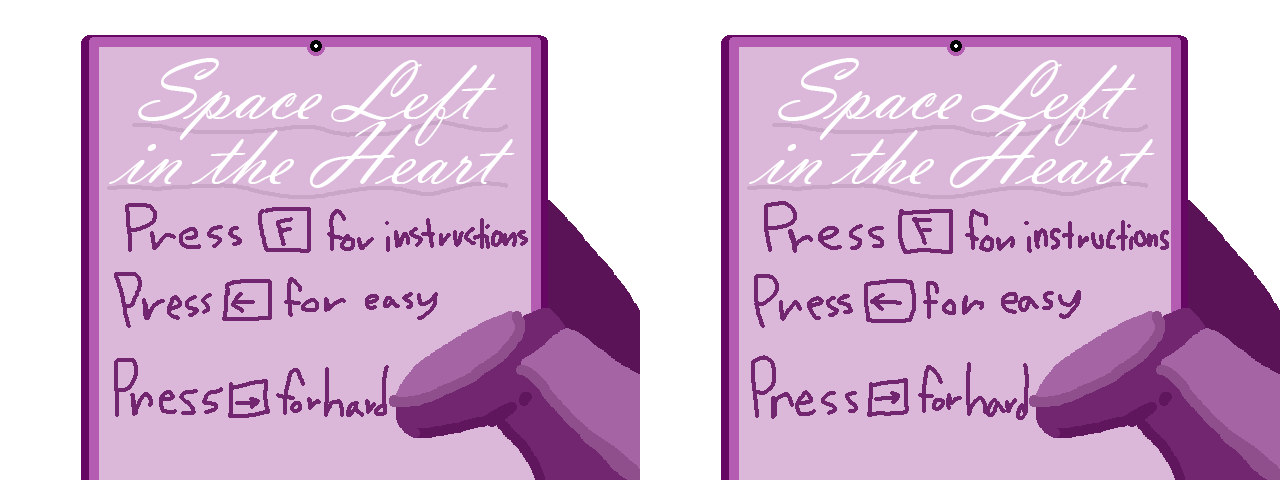
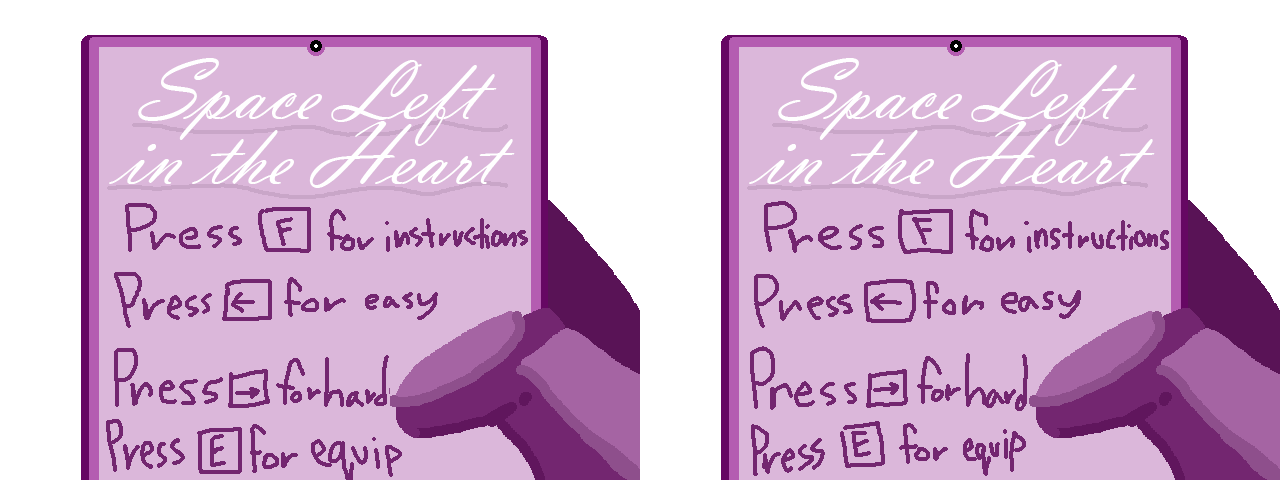
Added endings and unlockables

Changed region(s): [[0.0625, 0.7188, 0.3125, 1.0], [0.5625, 0.75, 0.8125, 1.0], [0.5625, 0.7188, 0.625, 0.75]]

diff --git a/src/scenes/Menu.js b/src/scenes/Menu.js
@@ -30,6 +30,25 @@ class Menu extends Phaser.Scene {
             startFrame: 0,
             endFrame: 1
         });
+        //load in the equipment menu
+        this.load.spritesheet('equipTail', './assets/borderMenu.png', {
+            frameWidth: 640,
+            frameHeight: 480,
+            startFrame: 0,
+            endFrame: 1
+        });
+        this.load.spritesheet('equipFlower', './assets/borderFlowerMenu.png', {
+            frameWidth: 640,
+            frameHeight: 480,
+            startFrame: 0,
+            endFrame: 1
+        });
+        this.load.spritesheet('equipMacaroni', './assets/borderMacaroniMenu.png', {
+            frameWidth: 640,
+            frameHeight: 480,
+            startFrame: 0,
+            endFrame: 1
+        });
     }
 
     create(){
@@ -72,48 +91,95 @@ class Menu extends Phaser.Scene {
             frameRate: 5,
             repeat: -1
         });
+        //create the equip menus
+        this.anims.create({
+            key:'tail',
+            frames: this.anims.generateFrameNumbers('equipTail', {
+                start: 0,
+                end: 1,
+                first: 0
+            }),
+            frameRate: 5,
+            repeat: -1
+        });
+        this.anims.create({
+            key:'flower',
+            frames: this.anims.generateFrameNumbers('equipFlower', {
+                start: 0,
+                end: 1,
+                first: 0
+            }),
+            frameRate: 5,
+            repeat: -1
+        });
+        this.anims.create({
+            key:'macaroni',
+            frames: this.anims.generateFrameNumbers('equipMacaroni', {
+                start: 0,
+                end: 1,
+                first: 0
+            }),
+            frameRate: 5,
+            repeat: -1
+        });
         this.inInstruct = 0;
         this.moveDown = 0;
+        this.borderEquip = 0;
         // define keys
         keyLEFT = this.input.keyboard.addKey(Phaser.Input.Keyboard.KeyCodes.LEFT);
         keyRIGHT = this.input.keyboard.addKey(Phaser.Input.Keyboard.KeyCodes.RIGHT);
         keyF = this.input.keyboard.addKey(Phaser.Input.Keyboard.KeyCodes.F);
+        keyE = this.input.keyboard.addKey(Phaser.Input.Keyboard.KeyCodes.E);
+        keyM = this.input.keyboard.addKey(Phaser.Input.Keyboard.KeyCodes.M);
     }
 
     update(){
         if(this.moveDown == 1){
             this.movePhone();
         }
-        if(Phaser.Input.Keyboard.JustDown(keyLEFT) && this.inInstruct <= 0){
-            this.moveDown = 1;
-            this.inInstruct = 5;
-            this.sound.play('menuSound');
-            //easy mode
-            this.clock = this.time.delayedCall(750, () => {
-                game.settings = {
-                    spaceshipSpeed: 3,
-                    gameTimer: 60000,
-                    bonus: 1,
-                    punish: 20
-                }
-                this.scene.start('playScene');
-            }, null, this);
-
+        if(Phaser.Input.Keyboard.JustDown(keyLEFT)){
+            if(this.borderEquip == 1){
+                border = 0;
+                this.sound.play('menuSound');
+            }
+            else if(this.inInstruct <= 0){
+                this.moveDown = 1;
+                this.inInstruct = 5;
+                this.sound.play('menuSound');
+                //easy mode
+                this.clock = this.time.delayedCall(750, () => {
+                    game.settings = {
+                        spaceshipSpeed: 3,
+                        gameTimer: 60000,
+                        bonus: 1,
+                        punish: 20,
+                    }
+                    this.scene.start('playScene');
+                }, null, this);
+            }
         }
-        if(Phaser.Input.Keyboard.JustDown(keyRIGHT) && this.inInstruct <= 0) {
-            this.moveDown = 1;
-            this.inInstruct = 5;
-            this.sound.play('menuSound');
-            //hard mode
-            this.clock = this.time.delayedCall(750, () => {
-                game.settings = {
-                    spaceshipSpeed: 4,
-                    gameTimer: 45000,
-                    bonus: 1.5,
-                    punish: 40
+        if(Phaser.Input.Keyboard.JustDown(keyRIGHT)) {
+            if(this.borderEquip == 1){
+                if(flower == 1){
+                    border = 1;
+                    this.sound.play('menuSound');
                 }
-                this.scene.start('playScene');
-            }, null, this);
+            }
+            else if(this.inInstruct <= 0){
+                this.moveDown = 1;
+                this.inInstruct = 5;
+                this.sound.play('menuSound');
+                //hard mode
+                this.clock = this.time.delayedCall(750, () => {
+                    game.settings = {
+                        spaceshipSpeed: 4,
+                        gameTimer: 45000,
+                        bonus: 1.5,
+                        punish: 40,
+                    }
+                    this.scene.start('playScene');
+                }, null, this);
+            }
         }
         if(Phaser.Input.Keyboard.JustDown(keyF)) {
             if(this.inInstruct == 2){
@@ -133,8 +199,34 @@ class Menu extends Phaser.Scene {
                 this.inInstruct = 1;
             }
         }
+        if(Phaser.Input.Keyboard.JustDown(keyM) && this.borderEquip == 1 && macaroni == 1){
+            border = 2;
+            this.sound.play('menuSound');
+        }
+        if(Phaser.Input.Keyboard.JustDown(keyE) && this.inInstruct < 1){
+            this.showEquip();
+            this.inInstruct = 2;
+            this.borderEquip = 1;
+        }
     }
     movePhone(){
         this.menu.y += 10;
+    }
+    showEquip(){
+        if(macaroni == 1){
+            this.sound.play('menuSound');
+            let mac = this.add.sprite(0, 0, 'macaroni').setOrigin(0, 0);
+            mac.anims.play('macaroni');
+        }
+        else if(flower == 1){
+            this.sound.play('menuSound');
+            let flow = this.add.sprite(0, 0, 'flower').setOrigin(0, 0);
+            flow.anims.play('flower');
+        }
+        else{
+            this.sound.play('menuSound');
+            let original = this.add.sprite(0, 0, 'tail').setOrigin(0, 0);
+            original.anims.play('tail');
+        }
     }
 }

diff --git a/src/scenes/Play.js b/src/scenes/Play.js
@@ -16,6 +16,7 @@ class Play extends Phaser.Scene {
         this.load.image('sad', './assets/SSSSad.png');
         this.load.image('flower', './assets/flowerFrame.png');
         this.load.image('tail', './assets/tailBorder.png');
+        this.load.image('macaroni', './assets/macaroniFrame.png');
         this.load.image('drinkChat', './assets/drink1.png');
         this.load.image('drinkChat2', './assets/drink2.png');
         this.load.image('flirtChat', './assets/flirt1.png');
@@ -26,6 +27,11 @@ class Play extends Phaser.Scene {
         this.load.image('missChat2', './assets/miss2.png');
         this.load.image('insultChat', './assets/insult1.png');
         this.load.image('insultChat2', './assets/insult2.png');
+        this.load.image('bad', './assets/endingBad.png');
+        this.load.image('worst', './assets/endingWorst.png');
+        this.load.image('good', './assets/endingGood.png');
+        this.load.image('best', './assets/endingBest.png');
+        this.load.image('zone', './assets/endingZone.png');
 
         let spriteConfig = {            
             frameWidth: 64,
@@ -52,7 +58,8 @@ class Play extends Phaser.Scene {
         this.starfield = this.add.tileSprite(0, 0, 640, 480, 'starfield').setOrigin(0, 0);
         this.cafe = this.add.tileSprite(0, 0, 640, 480, 'cafe').setOrigin(0, 0);
         this.date = this.add.tileSprite(0, 0, 640, 480, 'default').setOrigin(0, 0);
-        this.talk = this.add.tileSprite(0, 0, 640, 480, 'tail').setOrigin(0, 0);
+        //this is the textbox filler
+        this.talk = this.add.tileSprite(0, 0, 640, 480, 'default').setOrigin(0, 0);
 
         //add music
         this.music = this.sound.add('music', {
@@ -201,8 +208,24 @@ class Play extends Phaser.Scene {
         //60 second timer
         endConfig.fixedWidth = 0;
         this.clock = this.time.delayedCall(game.settings.gameTimer, () => {
+            //make all ships invisible, textbox also
+            this.talk.alpha = 0;
+            this.ship01.alpha = 0;
+            this.ship02.alpha = 0;
+            this.ship03.alpha = 0;
+            this.ship04.alpha = 0;
+            this.p1Rocket.alpha = 0;
+            //Set highscore
+            if(this.p1Score > highscore){
+                highscore = this.p1Score;
+            }
+            //Check unlockables and play certain scenes
+            this.endScreen();
+            //Set gameover when time is up
             this.timeCheck = false;
             this.add.text(game.config.width/2, game.config.height/2, 'GAME OVER',
+            endConfig).setOrigin(0.5);
+            this.add.text(game.config.width/2, game.config.height/2 + 32, 'BEST DATE: ' + highscore,
             endConfig).setOrigin(0.5);
             this.add.text(game.config.width/2, game.config.height/2 + 64, // Press (M) for Menu
                 'Press (R) to Restart', endConfig).setOrigin(0.5);
@@ -216,21 +239,20 @@ class Play extends Phaser.Scene {
         this.baseTime = game.settings.gameTimer / 1000;
         this.timeDisplay = this.add.text(game.config.height - borderPadding*9,
             borderUISize, "Time Remaining: " + this.timeLeft, scoreConfig);
-        //what time it is
-        this.timeCheck = false;
-        //add bounce
-        this.bounce = 0;
-        //add music cut
-        this.musicCut = 0;
-        //white borders
-        /*this.add.rectangle( 0, 0, game.config.width, borderUISize, 0xFFFFFF).setOrigin(0, 0);
 
-        this.add.rectangle(0, game.config.height - borderUISize, game.config.width,
-        borderUISize, 0xFFFFFF).setOrigin(0, 0);
-        this.add.rectangle(0, 0, borderUISize, game.config.height, 0xFFFFFF).setOrigin(0, 0);
-        this.add.rectangle(game.config.width - borderUISize, 0, borderUISize, game.config.height, 0xFFFFFF).setOrigin(0, 0);*/
-
-        this.frame = this.add.tileSprite(0, 0, 640, 480, 'tail').setOrigin(0, 0);
+        this.timeCheck = false;   //what time it is
+        this.bounce = 0;          //add bounce
+        this.musicCut = 0;        //add music cut
+        //This is the frame
+        if(border == 2){
+            this.frame = this.add.tileSprite(0, 0, 640, 480, 'macaroni').setOrigin(0, 0);
+        }
+        else if(border == 1){
+            this.frame = this.add.tileSprite(0, 0, 640, 480, 'flower').setOrigin(0, 0);
+        }
+        else{
+            this.frame = this.add.tileSprite(0, 0, 640, 480, 'tail').setOrigin(0, 0);
+        }
     }
 
     update(){
@@ -422,5 +444,31 @@ class Play extends Phaser.Scene {
             this.doBounce(this.date);
             this.sound.play('sadSound');
         }
+    }
+    endScreen(){
+        if(this.p1Score >= 900){
+            macaroni = 1;
+            flower = 1;
+            this.end = this.add.tileSprite(0, 0, 640, 480, 'best').setOrigin(0, 0);
+        }
+        else if(this.p1Score >= 500){
+            flower = 1;
+            this.end = this.add.tileSprite(0, 0, 640, 480, 'good').setOrigin(0, 0);
+        }
+        else if(this.p1Score >= 0){
+            this.end = this.add.tileSprite(0, 0, 640, 480, 'zone').setOrigin(0, 0);
+        }
+        else if(this.p1Score >= -300){
+            this.end = this.add.tileSprite(0, 0, 640, 480, 'bad').setOrigin(0, 0);
+        }
+        else{
+            this.end = this.add.tileSprite(0, 0, 640, 480, 'worst').setOrigin(0, 0);
+        }
+        if(this.p1Score >= 0){
+            if(this.musicCut == 1){
+                this.music.resume();
+            }
+        }
+
     }
 }

diff --git a/src/main.js b/src/main.js
@@ -3,14 +3,18 @@ let config = {
     type: Phaser.CANVAS,
     width: 640,
     height: 480,
-    scene: [ Menu, Play ]
+    scene: [ Menu, Play ],
 }
-let game = new Phaser.Game(config);
 
+let game = new Phaser.Game(config);
 // Set UI Sizes
 let borderUISize = game.config.height / 15
 let borderPadding = borderUISize / 3;
 let starspeed = 1;
-
+//set unlocks
+let border = 0;
+let flower = 0;
+let macaroni = 0;
+let highscore = 0;
 //reserve keyboard bindings
-let keyF, keyR, keyLEFT, keyRIGHT, keyM;
+let keyF, keyR, keyLEFT, keyRIGHT, keyM, keyE;
